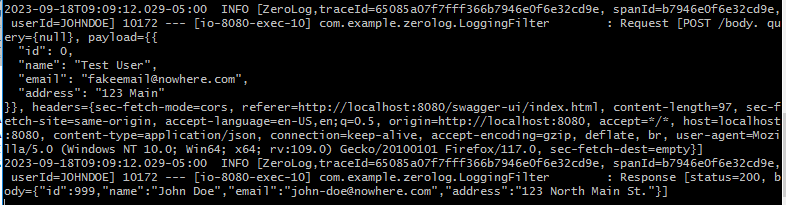
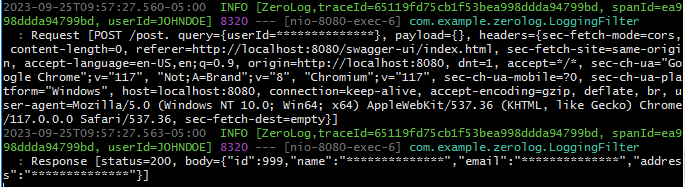
Added Sensitive Data Masking Code.

diff --git a/src/main/java/com/example/zerolog/LoggingFilter.java b/src/main/java/com/example/zerolog/LoggingFilter.java
@@ -1,26 +1,37 @@
 package com.example.zerolog;
 
-import java.io.IOException;
-import java.util.Enumeration;
-import java.util.HashMap;
-import java.util.Map;
-
-import org.slf4j.MDC;
-import org.springframework.stereotype.Component;
-import org.springframework.web.filter.OncePerRequestFilter;
-import org.springframework.web.util.ContentCachingRequestWrapper;
-import org.springframework.web.util.ContentCachingResponseWrapper;
-
+import com.fasterxml.jackson.core.JsonProcessingException;
+import com.fasterxml.jackson.databind.JsonNode;
+import com.fasterxml.jackson.databind.ObjectMapper;
+import com.fasterxml.jackson.databind.node.TextNode;
 import jakarta.servlet.FilterChain;
 import jakarta.servlet.ServletException;
 import jakarta.servlet.http.HttpServletRequest;
 import jakarta.servlet.http.HttpServletResponse;
 import lombok.extern.slf4j.Slf4j;
+import org.apache.commons.lang3.StringUtils;
+import org.slf4j.MDC;
+import org.springframework.beans.factory.annotation.Value;
+import org.springframework.stereotype.Component;
+import org.springframework.web.filter.OncePerRequestFilter;
+import org.springframework.web.util.ContentCachingRequestWrapper;
+import org.springframework.web.util.ContentCachingResponseWrapper;
 
+import java.io.IOException;
+import java.util.Arrays;
+import java.util.Enumeration;
+import java.util.HashMap;
+import java.util.Map;
+import java.util.concurrent.atomic.AtomicReference;
 
 @Component
 @Slf4j
-public class LoggingFilter extends OncePerRequestFilter{
+public class LoggingFilter extends OncePerRequestFilter {
+
+    public static final String MASK_VAL = "**************";
+
+    @Value("${sensitives:}")
+    private String[] sensitives;
 
     @Override
     protected void doFilterInternal(HttpServletRequest request, HttpServletResponse response, FilterChain filterChain)
@@ -38,10 +49,9 @@ public class LoggingFilter extends OncePerRequestFilter{
             String responseBody = new String(responseWrapper.getContentAsByteArray(), 0, responseWrapper.getContentAsByteArray().length, response.getCharacterEncoding());
 
             //Add logic for data filter
-
-            log.info("Request [{} {}. query={{}}, payload={{}}, headers={}]", 
-                request.getMethod(), request.getRequestURI(), request.getQueryString(), requestBody, getHeaders(requestWrapper));
-            log.info("Response [status={}, body={}]", response.getStatus(), responseBody);
+            log.info("Request [{} {}. query={{}}, payload={{}}, headers={}]",
+                    request.getMethod(), request.getRequestURI(), maskParams(request.getQueryString()), requestBody, getHeaders(requestWrapper));
+            log.info("Response [status={}, body={}]", response.getStatus(), maskJson(responseBody));
 
             responseWrapper.copyBodyToResponse();
 
@@ -50,14 +60,38 @@ public class LoggingFilter extends OncePerRequestFilter{
         }
     }
 
-     private Map<String, String> getHeaders(ContentCachingRequestWrapper requestWrapper) {
+    private Map<String, String> getHeaders(ContentCachingRequestWrapper requestWrapper) {
         Map<String, String> headers = new HashMap<>(5);
         Enumeration<String> names = requestWrapper.getHeaderNames();
-        while(names.hasMoreElements()) {
+        while (names.hasMoreElements()) {
             String name = names.nextElement();
             headers.put(name, requestWrapper.getHeader(name));
         }
         return headers;
     }
-    
+
+    private String maskParams(String params) {
+        AtomicReference<String> replaceParams = new AtomicReference<>(params);
+        Arrays.stream(sensitives).forEach(s -> {
+            if (StringUtils.equals(s, StringUtils.substringBefore(params, "="))) {
+                replaceParams.set(StringUtils.replace(params, StringUtils.substringAfter(params, "="), MASK_VAL));
+            }
+        });
+        return replaceParams.get();
+    }
+
+    private String maskJson(String jsonString) throws JsonProcessingException {
+        ObjectMapper mapper = new ObjectMapper();
+        JsonNode node = mapper.readTree(jsonString);
+        Arrays.stream(sensitives).forEach(s -> {
+            node.fields().forEachRemaining( e -> {
+                // Preferring EXACT match.
+                if (e.getKey().equals(s.toString())) {
+                    e.setValue(new TextNode(MASK_VAL));
+                }
+            });
+        });
+        return node.toString();
+    }
+
 }

diff --git a/README.md b/README.md
@@ -1,6 +1,6 @@
 # Simple Request and Response Logger for APIs
 
-This example demonstrates how all Request and Reponses for all API calls can be logged using Spring Boot.
+This example demonstrates how all Request and Reponses for all API calls can be logged using Spring Boot.  It also masks sensitive data based on your requirements.
 
 *NOTE: Please do NOT log PII Data!*
 
